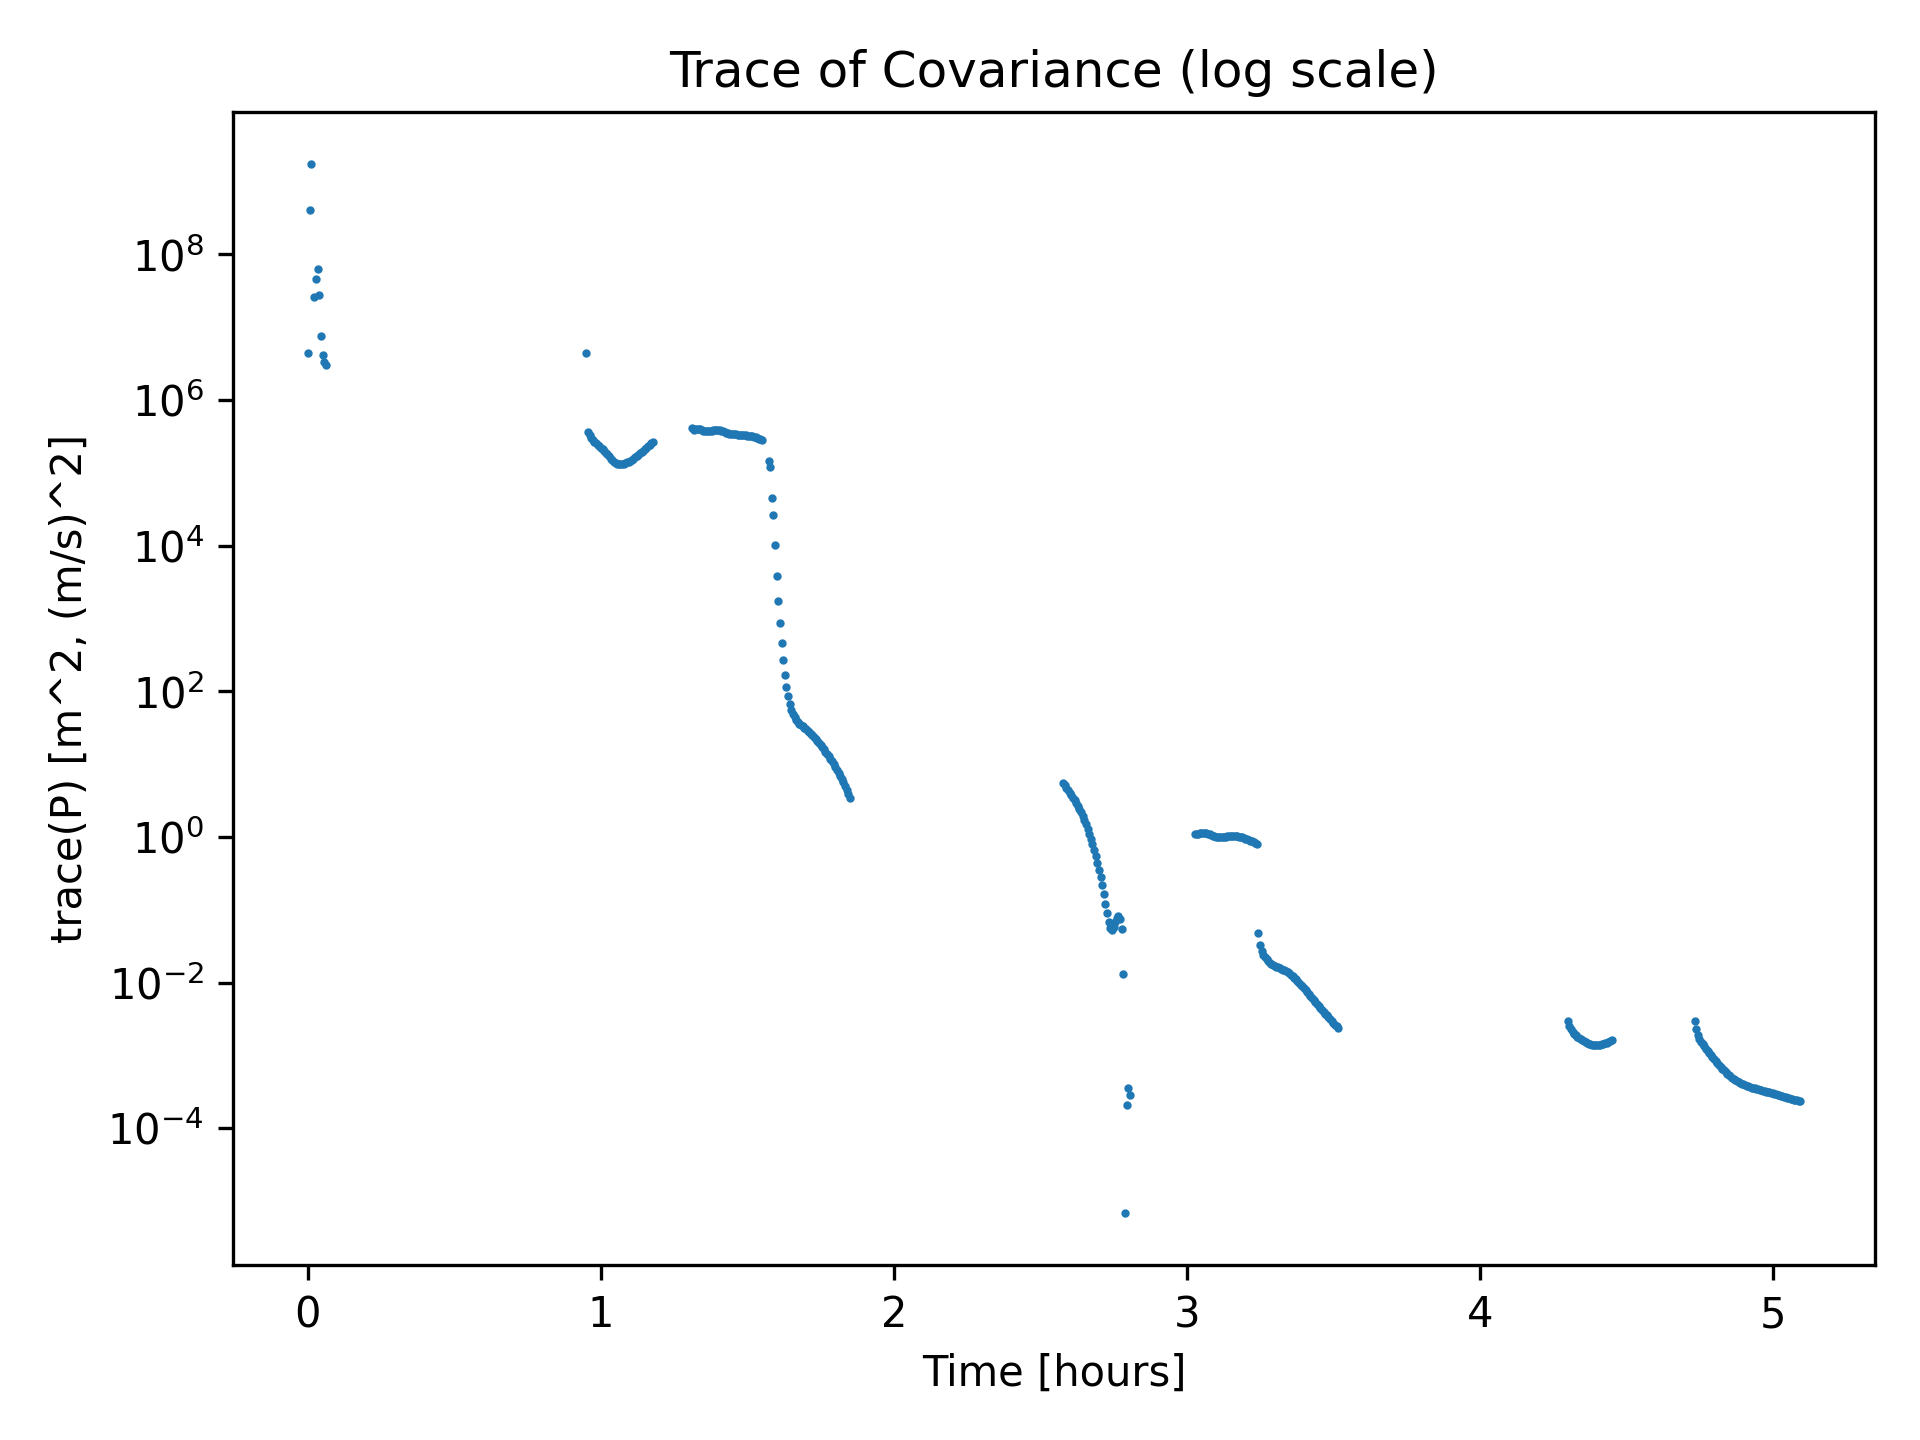
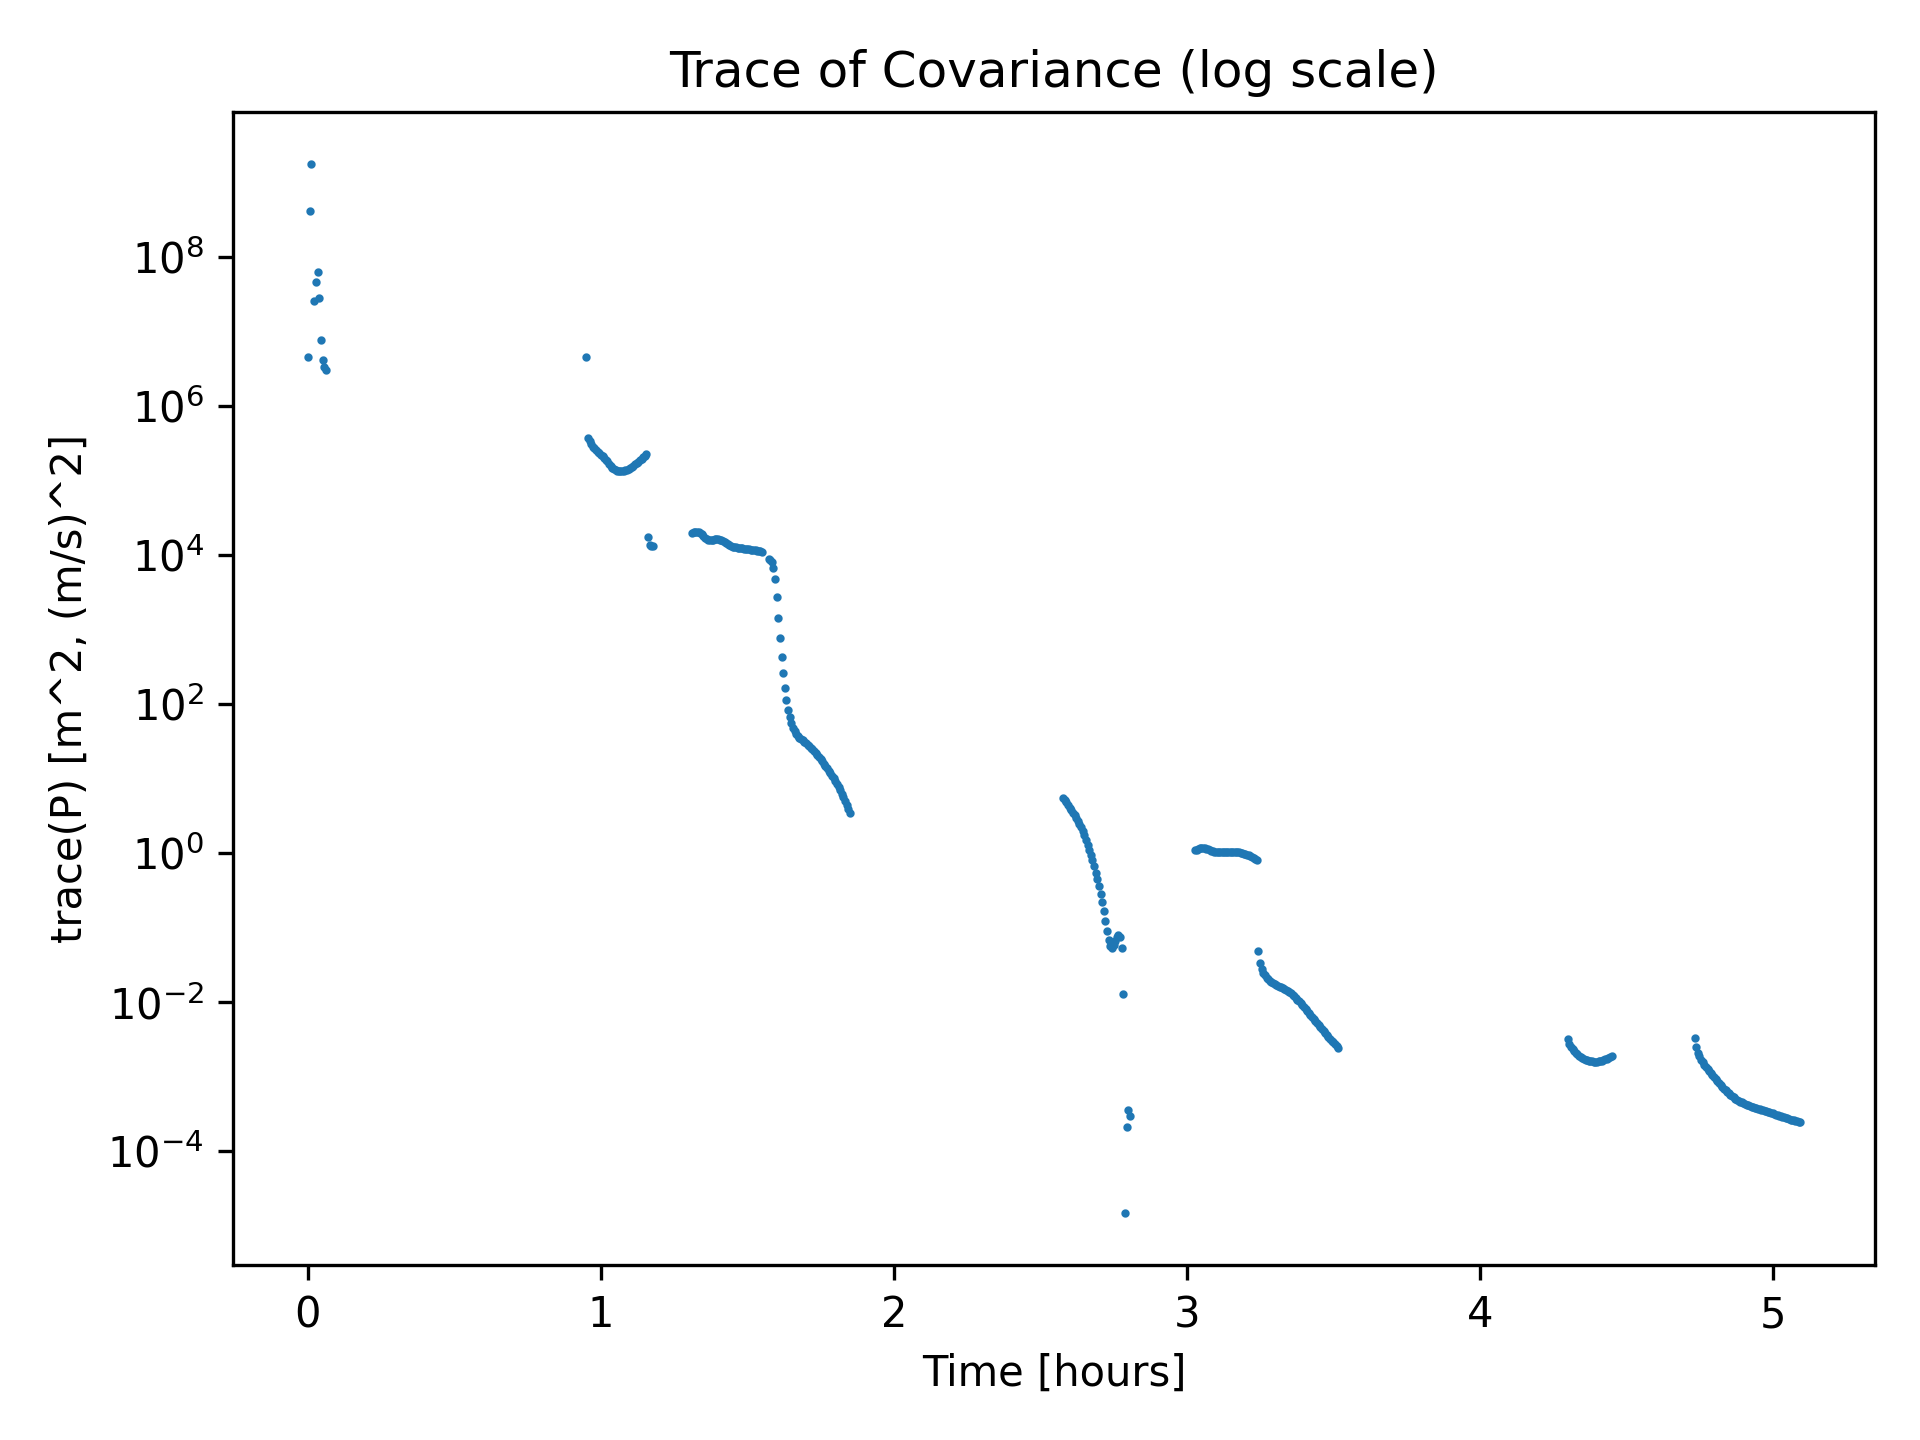
Code and plots done

diff --git a/Homework/Proj1/proj1_run_batch.py b/Homework/Proj1/proj1_run_batch.py
@@ -19,6 +19,7 @@ from src.helpers.plotting.plot_state_errors_eci import make_state_errors_eci_plo
 from src.helpers.plotting.plot_state_errors_rsw import make_state_errors_rsw_plot
 from src.helpers.plotting.plot_trace_cov_pos_vel import make_trace_cov_pos_vel_plot
 from src.helpers.plotting.plot_cov_ellipsoid import plot_cov_ellipsoid
+from src.helpers.plotting.plot_state_errors_18 import make_state_errors_18_plot
 
 
 # -----------------------------
@@ -99,12 +100,31 @@ R = np.diag([sigma_rho_m**2, sigma_rhod_m_s**2])
 # -----------------------------
 # A priori covariance 
 # -----------------------------
-P0_diag = (
-    [1e6] * 6 +          # r,v
-    [1e20, 1e6, 1e6] +    # mu, J2, Cd
-    [1e-10] * 3 +         # station 101
-    [1e6] * 6             # stations 337, 394
-)
+P0_diag = [
+    1e6,   # 1  r_x
+    1e6,   # 2  r_y
+    1e6,   # 3  r_z
+    1e6,   # 4  v_x
+    1e6,   # 5  v_y
+    1e6,   # 6  v_z
+
+    1e20,  # 7  mu
+    1e6,   # 8  J2
+    1e6,   # 9  Cd
+
+    1e-10, # 10 station 101 x
+    1e-10, # 11 station 101 y
+    1e-10, # 12 station 101 z
+
+    1e6,   # 13 station 337 x
+    1e6,   # 14 station 337 y
+    1e6,   # 15 station 337 z
+
+    1e6,   # 16 station 394 x
+    1e6,   # 17 station 394 y
+    1e6    # 18 station 394 z
+]
+
 P0 = np.diag(P0_diag)
 
 # -----------------------------
@@ -154,7 +174,7 @@ print_rms_summary(result, ignore_first_pass=True)
 # Make plots
 # -----------------------------
 SCRIPT_DIR = Path(__file__).resolve().parent
-PLOT_DIR = SCRIPT_DIR / "Plots" / "Batch_18"
+PLOT_DIR = SCRIPT_DIR / "Plots" / "Station_18"
 PLOT_DIR.mkdir(parents=True, exist_ok=True)
 
 make_prefit_residuals_plot(result, PLOT_DIR)
@@ -166,6 +186,20 @@ make_trace_cov_pos_vel_plot(result, PLOT_DIR, length_unit="m")
 plot_cov_ellipsoid(result, PLOT_DIR)
 
 # -----------------------------
+# State error (18-state) vs a priori flow
+#   Δx = φ(t, x0_apriori, t0) - X_hat(t)
+# -----------------------------
+dx_hist_time = info.get("dx_hist_time", None)
+if dx_hist_time is not None:
+    make_state_errors_18_plot(
+        t_meas,
+        -dx_hist_time,
+        PLOT_DIR,
+        title="Batch State Error (X_ref - X_hat)",
+        filename="state_errors_18_batch.png",
+    )
+
+# -----------------------------
 # Per-iteration plots (iterations 1-3)
 # -----------------------------
 prefit_hist = info.get("prefit_resids_hist", [])
@@ -174,6 +208,15 @@ Lambda_hist = info.get("Lambda_hist", [])
 x0_star_hist = info.get("x0_star_hist", [])
 
 max_iters_to_plot = min(3, len(prefit_hist), len(postfit_lin_hist), len(Lambda_hist))
+
+# Baseline (a-priori flow) for per-iteration state error plots
+X_base_iter, _ = propagate_x_phi_history(
+    x0=x0_bar,
+    t_eval=t_meas,
+    f=dyn_fun,
+    A=dyn_jac,
+    settings=prop_settings,
+)
 
 for k in range(max_iters_to_plot):
     iter_dir = PLOT_DIR / f"Iter_{k+1}"
@@ -199,6 +242,15 @@ for k in range(max_iters_to_plot):
             f=dyn_fun,
             A=dyn_jac,
             settings=prop_settings
+        )
+
+        # State error vs baseline for this iteration
+        make_state_errors_18_plot(
+            t_meas,
+            X_base_iter - X_iter,
+            iter_dir,
+            title=f"Batch State Error (Iter {k+1}: X_ref - X_hat)",
+            filename=f"state_errors_18_iter_{k+1}.png",
         )
 
         n_iter = X_iter.shape[1]

diff --git a/Homework/Proj1/proj1_run_ekf_ws.py b/Homework/Proj1/proj1_run_ekf_ws.py
@@ -6,7 +6,7 @@ sys.path.append("../../")
 
 from src.Functions.filter_18_state import LinearizedKalmanFilter18State, ExtendedKalmanFilter18State
 from src.Functions.dynamics_muJ2_drag import f_muJ2_drag, A_muJ2_drag
-from src.Functions.propagation import PropSettings
+from src.Functions.propagation import PropSettings, propagate_x_phi_history
 
 from src.helpers.plotting.post_processing import run_filter_post_processing_18, print_rms_summary
 from src.helpers.plotting.plot_prefit_residuals import make_prefit_residuals_plot
@@ -16,6 +16,7 @@ from src.helpers.plotting.plot_cov_diag_log import make_cov_diag_log_plot
 from src.helpers.plotting.plot_trace_cov import make_trace_cov_plot
 from src.helpers.plotting.plot_trace_cov_pos_vel import make_trace_cov_pos_vel_plot
 from src.helpers.plotting.plot_cov_ellipsoid import plot_cov_ellipsoid
+from src.helpers.plotting.plot_state_errors_18 import make_state_errors_18_plot
 
 
 # -----------------------------
@@ -143,7 +144,7 @@ out = ekf.run_warmstarted(
     all_meas=all_meas,
     stations=[],
     lkf=lkf,
-    num_init_meas=100,
+    num_init_meas=50,
     Xtrue_meas=None,
 )
 
@@ -165,5 +166,24 @@ make_cov_diag_log_plot(result, PLOT_DIR)
 make_trace_cov_plot(result, PLOT_DIR)
 make_trace_cov_pos_vel_plot(result, PLOT_DIR, length_unit="m")
 plot_cov_ellipsoid(result, PLOT_DIR)
+
+# -----------------------------
+# State error (18-state) vs a priori flow
+# -----------------------------
+X_base, _ = propagate_x_phi_history(
+    x0=X0_star,
+    t_eval=out["t_meas"],
+    f=dyn_fun,
+    A=dyn_jac,
+    settings=prop_settings,
+)
+state_err_18 = X_base - out["Xhat_meas"]
+make_state_errors_18_plot(
+    out["t_meas"],
+    state_err_18,
+    PLOT_DIR,
+    title="EKF-WS State Error (X_ref - X_hat)",
+    filename="state_errors_18_ekf_ws.png",
+)
 
 print(f"\nSaved plots to: {PLOT_DIR}")

diff --git a/Homework/Proj1/proj1_run_lkf.py b/Homework/Proj1/proj1_run_lkf.py
@@ -6,7 +6,7 @@ sys.path.append("../../")
 
 from src.Functions.filter_18_state import LinearizedKalmanFilter18State
 from src.Functions.dynamics_muJ2_drag import f_muJ2_drag, A_muJ2_drag
-from src.Functions.propagation import PropSettings
+from src.Functions.propagation import PropSettings, propagate_x_phi_history
 
 from src.helpers.plotting.post_processing import run_filter_post_processing_18, print_rms_summary
 from src.helpers.plotting.plot_prefit_residuals import make_prefit_residuals_plot
@@ -16,6 +16,7 @@ from src.helpers.plotting.plot_cov_diag_log import make_cov_diag_log_plot
 from src.helpers.plotting.plot_trace_cov import make_trace_cov_plot
 from src.helpers.plotting.plot_trace_cov_pos_vel import make_trace_cov_pos_vel_plot
 from src.helpers.plotting.plot_cov_ellipsoid import plot_cov_ellipsoid
+from src.helpers.plotting.plot_state_errors_18 import make_state_errors_18_plot
 
 
 # -----------------------------
@@ -145,5 +146,24 @@ make_cov_diag_log_plot(result, PLOT_DIR)
 make_trace_cov_plot(result, PLOT_DIR)
 make_trace_cov_pos_vel_plot(result, PLOT_DIR, length_unit="m")
 plot_cov_ellipsoid(result, PLOT_DIR)
+
+# -----------------------------
+# State error (18-state) vs a priori flow
+# -----------------------------
+X_base, _ = propagate_x_phi_history(
+    x0=X0_star,
+    t_eval=out["t_meas"],
+    f=dyn_fun,
+    A=dyn_jac,
+    settings=prop_settings,
+)
+state_err_18 = X_base - out["X_pf"]
+make_state_errors_18_plot(
+    out["t_meas"],
+    state_err_18,
+    PLOT_DIR,
+    title="LKF State Error (X_ref - X_hat)",
+    filename="state_errors_18_lkf.png",
+)
 
 print(f"\nSaved plots to: {PLOT_DIR}")

diff --git a/Homework/Proj1/proj1_run_ekf.py b/Homework/Proj1/proj1_run_ekf.py
@@ -6,7 +6,7 @@ sys.path.append("../../")
 
 from src.Functions.filter_18_state import ExtendedKalmanFilter18State
 from src.Functions.dynamics_muJ2_drag import f_muJ2_drag, A_muJ2_drag
-from src.Functions.propagation import PropSettings
+from src.Functions.propagation import PropSettings, propagate_x_phi_history
 
 from src.helpers.plotting.post_processing import run_filter_post_processing_18, print_rms_summary
 from src.helpers.plotting.plot_prefit_residuals import make_prefit_residuals_plot
@@ -16,6 +16,7 @@ from src.helpers.plotting.plot_cov_diag_log import make_cov_diag_log_plot
 from src.helpers.plotting.plot_trace_cov import make_trace_cov_plot
 from src.helpers.plotting.plot_trace_cov_pos_vel import make_trace_cov_pos_vel_plot
 from src.helpers.plotting.plot_cov_ellipsoid import plot_cov_ellipsoid
+from src.helpers.plotting.plot_state_errors_18 import make_state_errors_18_plot
 
 
 # -----------------------------
@@ -145,5 +146,24 @@ make_cov_diag_log_plot(result, PLOT_DIR)
 make_trace_cov_plot(result, PLOT_DIR)
 make_trace_cov_pos_vel_plot(result, PLOT_DIR, length_unit="m")
 plot_cov_ellipsoid(result, PLOT_DIR)
+
+# -----------------------------
+# State error (18-state) vs a priori flow
+# -----------------------------
+X_base, _ = propagate_x_phi_history(
+    x0=x0,
+    t_eval=out["t_meas"],
+    f=dyn_fun,
+    A=dyn_jac,
+    settings=prop_settings,
+)
+state_err_18 = X_base - out["X_pf"]
+make_state_errors_18_plot(
+    out["t_meas"],
+    state_err_18,
+    PLOT_DIR,
+    title="EKF State Error (X_ref - X_hat)",
+    filename="state_errors_18_ekf.png",
+)
 
 print(f"\nSaved plots to: {PLOT_DIR}")

diff --git a/src/helpers/plotting/plot_state_errors_18.py b/src/helpers/plotting/plot_state_errors_18.py
@@ -1,0 +1,54 @@
+from __future__ import annotations
+import numpy as np
+import matplotlib.pyplot as plt
+from pathlib import Path
+
+from .common import as_hours, savefig
+
+
+def make_state_errors_18_plot(
+    t_meas: np.ndarray,
+    state_err: np.ndarray,
+    outdir: Path,
+    *,
+    show: bool = False,
+    title: str = "State Errors (18-state)",
+    filename: str = "state_errors_18.png",
+) -> None:
+    """
+    Plot 18-state error time histories in a 6x3 grid.
+
+    state_err is expected to be (m, 18) with units:
+      r (m), v (m/s), mu (m^3/s^2), J2 (unitless), Cd (unitless),
+      station positions (m).
+    """
+    t_meas = np.asarray(t_meas, dtype=float).reshape(-1)
+    e = np.asarray(state_err, dtype=float)
+    if e.ndim != 2 or e.shape[1] < 18:
+        raise ValueError(f"state_err must have shape (m, 18); got {e.shape}")
+
+    t_hr = as_hours(t_meas)
+
+    labels = [
+        "x [m]", "y [m]", "z [m]",
+        "vx [m/s]", "vy [m/s]", "vz [m/s]",
+        "mu [m^3/s^2]", "J2 [-]", "Cd [-]",
+        "Rs_101 x [m]", "Rs_101 y [m]", "Rs_101 z [m]",
+        "Rs_337 x [m]", "Rs_337 y [m]", "Rs_337 z [m]",
+        "Rs_394 x [m]", "Rs_394 y [m]", "Rs_394 z [m]",
+    ]
+
+    fig, axes = plt.subplots(6, 3, figsize=(14, 10), sharex=True)
+    axes = axes.reshape(6, 3)
+
+    for i in range(18):
+        r = i // 3
+        c = i % 3
+        ax = axes[r, c]
+        ax.plot(t_hr, e[:, i], ".", markersize=2)
+        ax.set_ylabel(labels[i])
+        if r == 5:
+            ax.set_xlabel("Time [hours]")
+
+    fig.suptitle(title)
+    savefig(fig, outdir / filename, show=show)
